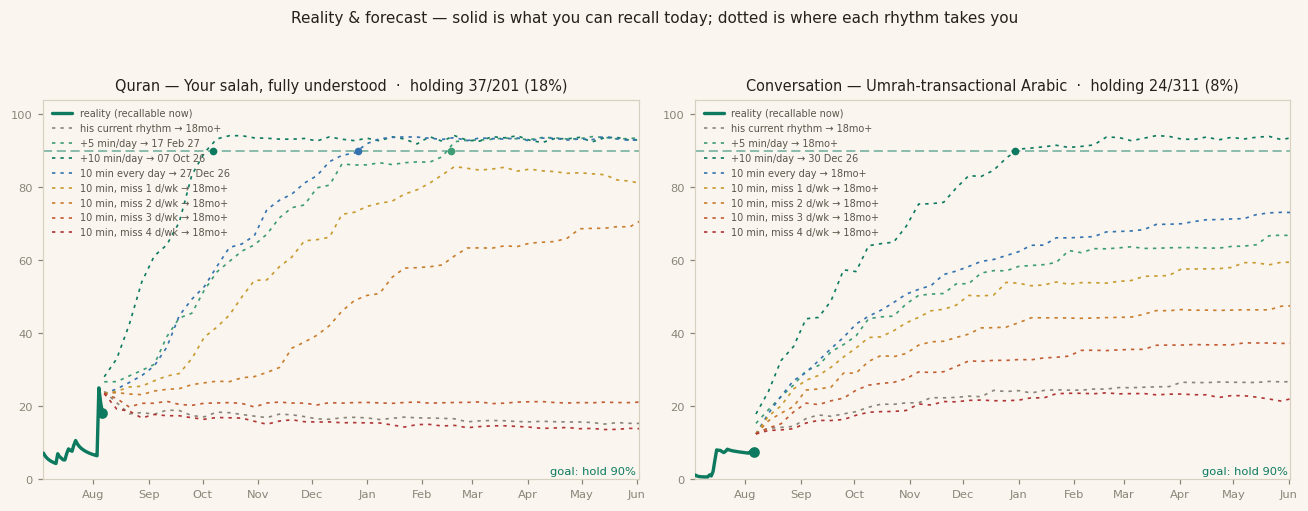
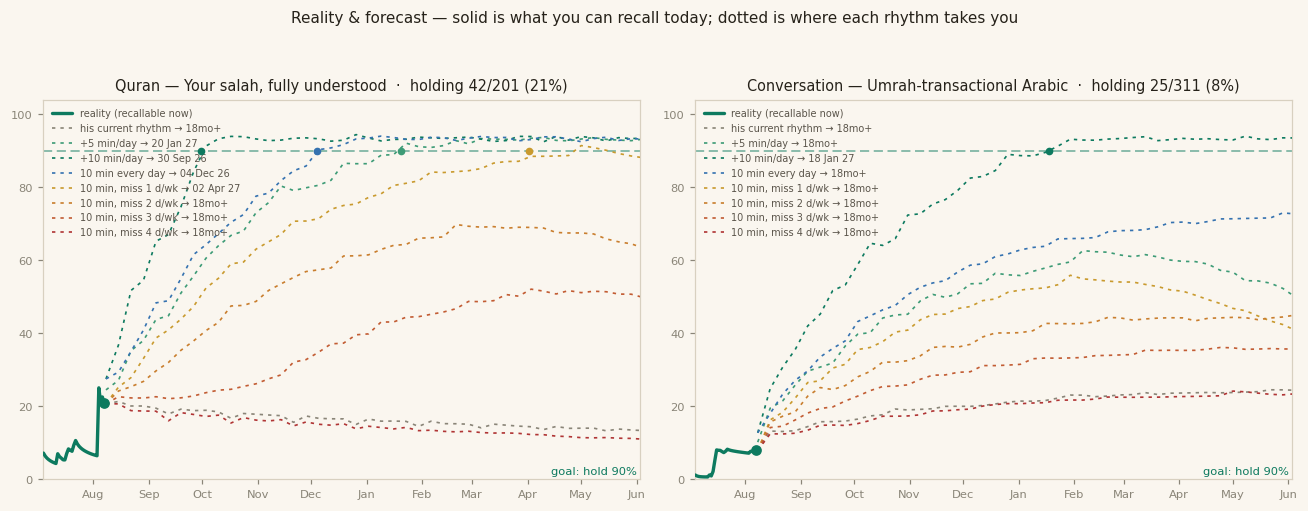
Hooks for his three hookless weak words (ناس، بين، قبل) + nightly progress refresh
- ناس anchored in Surah an-Nas itself (he recites it daily)
- بين anchored in Ayat al-Kursi's ما بين أيديهم
- قبل via the qibla/কিবলা root ق-ب-ل (in-front → before)
- progress-series.json + progress.png regenerated from tonight's data

diff --git a/index.html b/index.html
@@ -8,8 +8,8 @@
   <link rel="icon" href="icons/icon-192.png">
   <link rel="apple-touch-icon" href="icons/icon-192.png">
   <title>Arabic Through Stories — العربية بالقصص</title>
-  <link rel="stylesheet" href="css/fonts.css?v=msi1b18p">
-  <link rel="stylesheet" href="css/style.css?v=msi1b18p">
+  <link rel="stylesheet" href="css/fonts.css?v=msi95wuk">
+  <link rel="stylesheet" href="css/style.css?v=msi95wuk">
 </head>
 <body>
 <main>
@@ -120,9 +120,9 @@
 </main>
 <footer>Audio uses your browser's built-in Arabic voice (best in Edge or Chrome). · <a href="keyboard.html">Phonetic keyboard tool</a></footer>
 
-<script src="js/app.js?v=msi1b18p"></script>
-<script src="js/tracker.js?v=msi1b18p"></script>
-<script src="js/progress-model.js?v=msi1b18p"></script>
+<script src="js/app.js?v=msi95wuk"></script>
+<script src="js/tracker.js?v=msi95wuk"></script>
+<script src="js/progress-model.js?v=msi95wuk"></script>
 <script>
 renderNav("stories");
 trackPage("dashboard");

diff --git a/vocab.html b/vocab.html
@@ -8,8 +8,8 @@
   <link rel="icon" href="icons/icon-192.png">
   <link rel="apple-touch-icon" href="icons/icon-192.png">
   <title>Vocab Lab — Arabic Through Stories</title>
-  <link rel="stylesheet" href="css/fonts.css?v=msi1b18p">
-  <link rel="stylesheet" href="css/style.css?v=msi1b18p">
+  <link rel="stylesheet" href="css/fonts.css?v=msi95wuk">
+  <link rel="stylesheet" href="css/style.css?v=msi95wuk">
   <style>
     .fam-grid { display: grid; grid-template-columns: repeat(auto-fill, minmax(220px, 1fr)); gap: 14px; }
     .fam-card {
@@ -56,8 +56,8 @@
   <div id="kbDock"></div>
 </main>
 
-<script src="js/app.js?v=msi1b18p"></script>
-<script src="js/tracker.js?v=msi1b18p"></script>
+<script src="js/app.js?v=msi95wuk"></script>
+<script src="js/tracker.js?v=msi95wuk"></script>
 <script>
 renderNav(new URLSearchParams(location.search).get("view") === "lessons" ? "lessons" : "vocab");
 

diff --git a/converse.html b/converse.html
@@ -8,8 +8,8 @@
   <link rel="icon" href="icons/icon-192.png">
   <link rel="apple-touch-icon" href="icons/icon-192.png">
   <title>Conversation Partner — Arabic Through Stories</title>
-  <link rel="stylesheet" href="css/fonts.css?v=msi1b18p">
-  <link rel="stylesheet" href="css/style.css?v=msi1b18p">
+  <link rel="stylesheet" href="css/fonts.css?v=msi95wuk">
+  <link rel="stylesheet" href="css/style.css?v=msi95wuk">
   <style>
     .cv-steps { display: grid; gap: 10px; margin: 8px 0 2px; }
     .cv-step { display: flex; gap: 10px; align-items: flex-start; font-size: 14.5px; }
@@ -35,8 +35,8 @@
   <div id="content">Loading…</div>
 </main>
 
-<script src="js/app.js?v=msi1b18p"></script>
-<script src="js/tracker.js?v=msi1b18p"></script>
+<script src="js/app.js?v=msi95wuk"></script>
+<script src="js/tracker.js?v=msi95wuk"></script>
 <script>
 renderNav("converse");
 trackPage("converse");

diff --git a/test.html b/test.html
@@ -8,8 +8,8 @@
   <link rel="icon" href="icons/icon-192.png">
   <link rel="apple-touch-icon" href="icons/icon-192.png">
   <title>Milestone Test — Arabic Through Stories</title>
-  <link rel="stylesheet" href="css/fonts.css?v=msi1b18p">
-  <link rel="stylesheet" href="css/style.css?v=msi1b18p">
+  <link rel="stylesheet" href="css/fonts.css?v=msi95wuk">
+  <link rel="stylesheet" href="css/style.css?v=msi95wuk">
   <style>
     .t-row td { padding: 8px 10px; border-bottom: 1px solid var(--border); }
     .t-prompt-ar { font-family: var(--font-ar); font-size: 26px; direction: rtl; text-align: right; }
@@ -25,8 +25,8 @@
   <div id="kbDock"></div>
 </main>
 
-<script src="js/app.js?v=msi1b18p"></script>
-<script src="js/tracker.js?v=msi1b18p"></script>
+<script src="js/app.js?v=msi95wuk"></script>
+<script src="js/tracker.js?v=msi95wuk"></script>
 <script>
 renderNav("");
 trackPage("test");

diff --git a/speaking.html b/speaking.html
@@ -8,8 +8,8 @@
   <link rel="icon" href="icons/icon-192.png">
   <link rel="apple-touch-icon" href="icons/icon-192.png">
   <title>Speaking — Arabic Through Stories</title>
-  <link rel="stylesheet" href="css/fonts.css?v=msi1b18p">
-  <link rel="stylesheet" href="css/style.css?v=msi1b18p">
+  <link rel="stylesheet" href="css/fonts.css?v=msi95wuk">
+  <link rel="stylesheet" href="css/style.css?v=msi95wuk">
   <style>
     .chips { display: flex; gap: 6px; flex-wrap: wrap; margin-bottom: 12px; }
     .chips button { border-radius: 999px; font-size: 13px; padding: 5px 12px; }
@@ -49,8 +49,8 @@
   </div>
 </main>
 
-<script src="js/app.js?v=msi1b18p"></script>
-<script src="js/tracker.js?v=msi1b18p"></script>
+<script src="js/app.js?v=msi95wuk"></script>
+<script src="js/tracker.js?v=msi95wuk"></script>
 <script>
 renderNav("speaking");
 trackPage("speaking");

diff --git a/quran.html b/quran.html
@@ -8,8 +8,8 @@
   <link rel="icon" href="icons/icon-192.png">
   <link rel="apple-touch-icon" href="icons/icon-192.png">
   <title>Quran — Arabic Through Stories</title>
-  <link rel="stylesheet" href="css/fonts.css?v=msi1b18p">
-  <link rel="stylesheet" href="css/style.css?v=msi1b18p">
+  <link rel="stylesheet" href="css/fonts.css?v=msi95wuk">
+  <link rel="stylesheet" href="css/style.css?v=msi95wuk">
   <style>
     .verse-block { border-bottom: 1px dashed var(--border); padding: 18px 0; }
     .verse-block:last-child { border-bottom: none; }
@@ -46,8 +46,8 @@
   <div id="content">Loading…</div>
 </main>
 
-<script src="js/app.js?v=msi1b18p"></script>
-<script src="js/tracker.js?v=msi1b18p"></script>
+<script src="js/app.js?v=msi95wuk"></script>
+<script src="js/tracker.js?v=msi95wuk"></script>
 <script>
 renderNav("quran");
 trackPage("quran");

diff --git a/grammar.html b/grammar.html
@@ -8,8 +8,8 @@
   <link rel="icon" href="icons/icon-192.png">
   <link rel="apple-touch-icon" href="icons/icon-192.png">
   <title>Grammar — Arabic Through Stories</title>
-  <link rel="stylesheet" href="css/fonts.css?v=msi1b18p">
-  <link rel="stylesheet" href="css/style.css?v=msi1b18p">
+  <link rel="stylesheet" href="css/fonts.css?v=msi95wuk">
+  <link rel="stylesheet" href="css/style.css?v=msi95wuk">
   <style>
     .g-grid { display: grid; grid-template-columns: repeat(auto-fill, minmax(230px, 1fr)); gap: 14px; }
     .g-card {
@@ -34,8 +34,8 @@
   <div id="kbDock"></div>
 </main>
 
-<script src="js/app.js?v=msi1b18p"></script>
-<script src="js/tracker.js?v=msi1b18p"></script>
+<script src="js/app.js?v=msi95wuk"></script>
+<script src="js/tracker.js?v=msi95wuk"></script>
 <script>
 renderNav("grammar");
 trackPage("grammar");

diff --git a/sentences.html b/sentences.html
@@ -8,8 +8,8 @@
   <link rel="icon" href="icons/icon-192.png">
   <link rel="apple-touch-icon" href="icons/icon-192.png">
   <title>Sentence Practice — Arabic Through Stories</title>
-  <link rel="stylesheet" href="css/fonts.css?v=msi1b18p">
-  <link rel="stylesheet" href="css/style.css?v=msi1b18p">
+  <link rel="stylesheet" href="css/fonts.css?v=msi95wuk">
+  <link rel="stylesheet" href="css/style.css?v=msi95wuk">
   <style>
     .sp-chips { display: flex; gap: 8px; flex-wrap: wrap; margin: 6px 0 4px; }
     .sp-chip {
@@ -37,8 +37,8 @@
   <div id="kbDock"></div>
 </main>
 
-<script src="js/app.js?v=msi1b18p"></script>
-<script src="js/tracker.js?v=msi1b18p"></script>
+<script src="js/app.js?v=msi95wuk"></script>
+<script src="js/tracker.js?v=msi95wuk"></script>
 <script>
 renderNav("sentences");
 trackPage("sentences");

diff --git a/audio.html b/audio.html
@@ -8,8 +8,8 @@
   <link rel="icon" href="icons/icon-192.png">
   <link rel="apple-touch-icon" href="icons/icon-192.png">
   <title>Audio Coach — Arabic Through Stories</title>
-  <link rel="stylesheet" href="css/fonts.css?v=msi1b18p">
-  <link rel="stylesheet" href="css/style.css?v=msi1b18p">
+  <link rel="stylesheet" href="css/fonts.css?v=msi95wuk">
+  <link rel="stylesheet" href="css/style.css?v=msi95wuk">
   <style>
     .ac-stage {
       text-align: center; padding: 26px 16px 30px; border-radius: 18px;
@@ -38,8 +38,8 @@
   <div id="content">Loading…</div>
 </main>
 
-<script src="js/app.js?v=msi1b18p"></script>
-<script src="js/tracker.js?v=msi1b18p"></script>
+<script src="js/app.js?v=msi95wuk"></script>
+<script src="js/tracker.js?v=msi95wuk"></script>
 <script>
 renderNav("audio");
 trackPage("audio");

diff --git a/review.html b/review.html
@@ -8,8 +8,8 @@
   <link rel="icon" href="icons/icon-192.png">
   <link rel="apple-touch-icon" href="icons/icon-192.png">
   <title>Daily Review — Arabic Through Stories</title>
-  <link rel="stylesheet" href="css/fonts.css?v=msi1b18p">
-  <link rel="stylesheet" href="css/style.css?v=msi1b18p">
+  <link rel="stylesheet" href="css/fonts.css?v=msi95wuk">
+  <link rel="stylesheet" href="css/style.css?v=msi95wuk">
 </head>
 <body>
 <main>
@@ -20,8 +20,8 @@
   </div>
 </main>
 
-<script src="js/app.js?v=msi1b18p"></script>
-<script src="js/tracker.js?v=msi1b18p"></script>
+<script src="js/app.js?v=msi95wuk"></script>
+<script src="js/tracker.js?v=msi95wuk"></script>
 <script>
 renderNav("review");
 trackPage("review");

diff --git a/story.html b/story.html
@@ -8,8 +8,8 @@
   <link rel="icon" href="icons/icon-192.png">
   <link rel="apple-touch-icon" href="icons/icon-192.png">
   <title>Story — Arabic Through Stories</title>
-  <link rel="stylesheet" href="css/fonts.css?v=msi1b18p">
-  <link rel="stylesheet" href="css/style.css?v=msi1b18p">
+  <link rel="stylesheet" href="css/fonts.css?v=msi95wuk">
+  <link rel="stylesheet" href="css/style.css?v=msi95wuk">
 </head>
 <body>
 <main>
@@ -22,8 +22,8 @@
   </div>
 </main>
 
-<script src="js/app.js?v=msi1b18p"></script>
-<script src="js/tracker.js?v=msi1b18p"></script>
+<script src="js/app.js?v=msi95wuk"></script>
+<script src="js/tracker.js?v=msi95wuk"></script>
 <script>
 renderNav("stories");
 

diff --git a/sw.js b/sw.js
@@ -8,7 +8,7 @@
      connection the cached copy answers while the network write-back continues.
    - Audio lives in its own persistent cache so 26MB of clips survive deploys.
    The CACHE version is stamped by scripts/bump-version.js on every deploy. */
-const CACHE = "ats-msi1b18p";
+const CACHE = "ats-msi95wuk";
 const AUDIO_CACHE = "ats-audio-v1";
 const CORE = [
   "index.html", "vocab.html", "quran.html", "grammar.html", "speaking.html",
